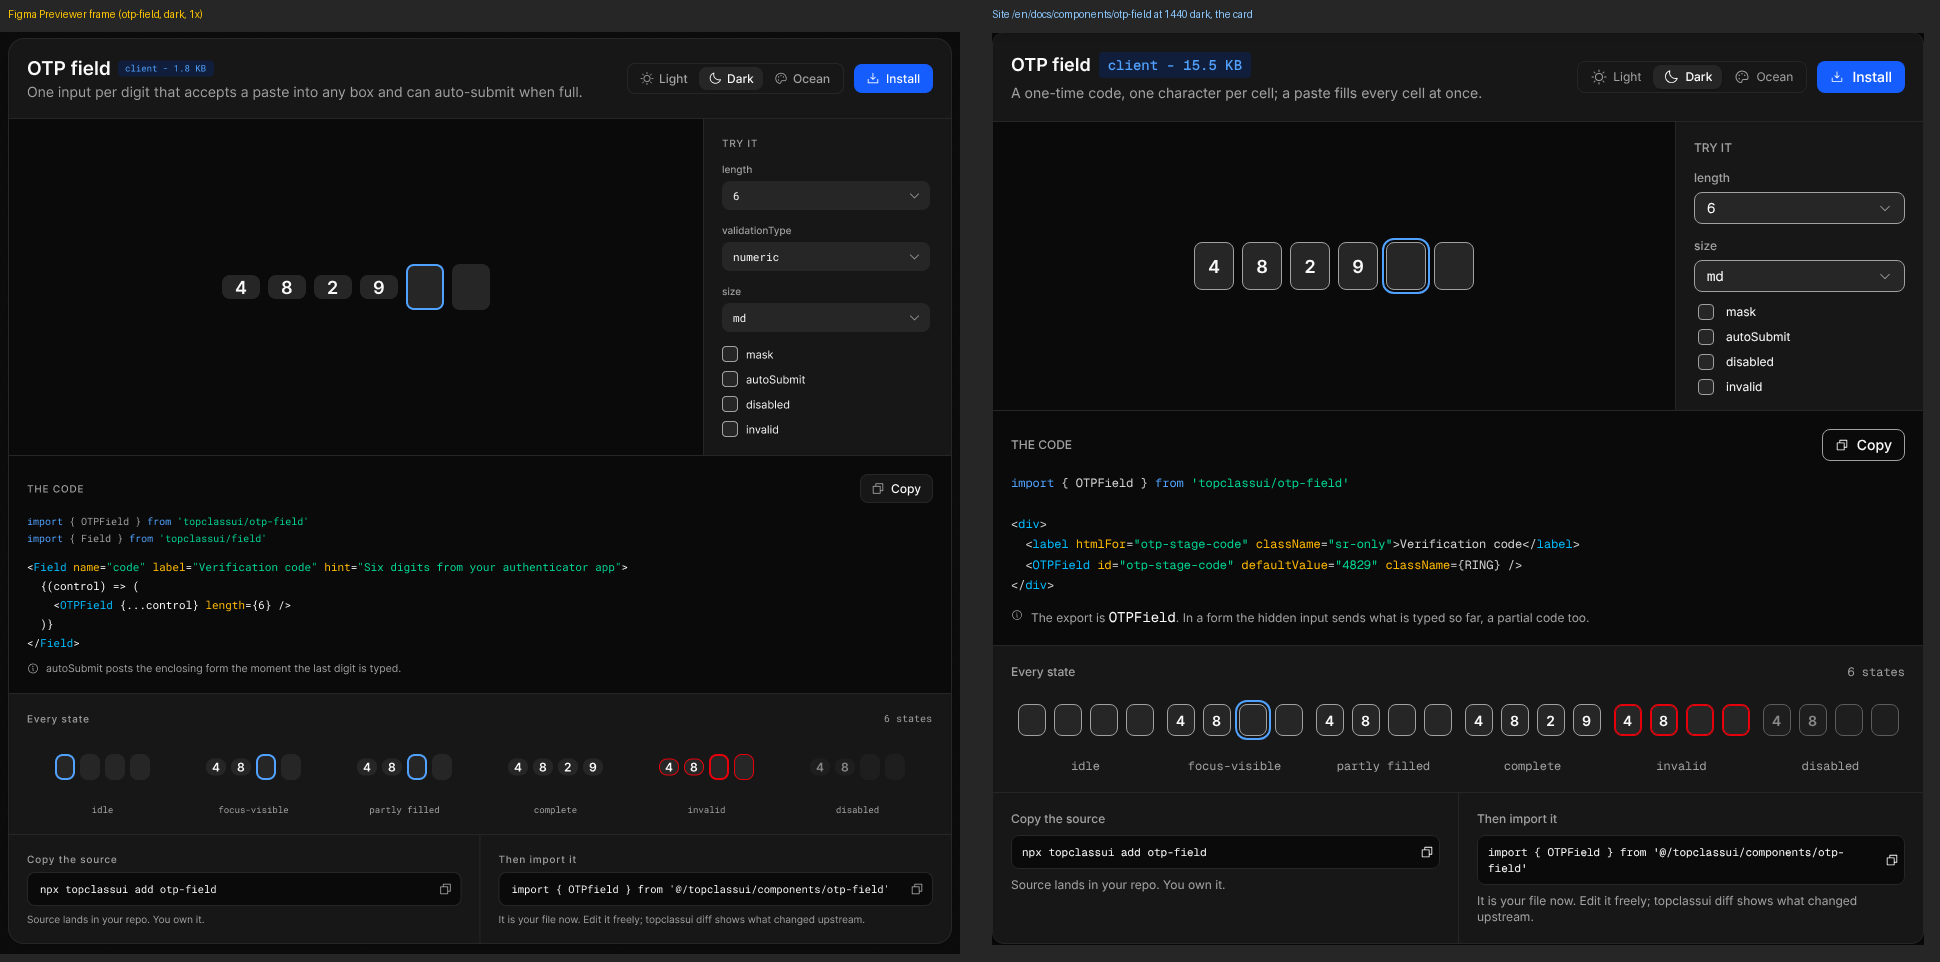
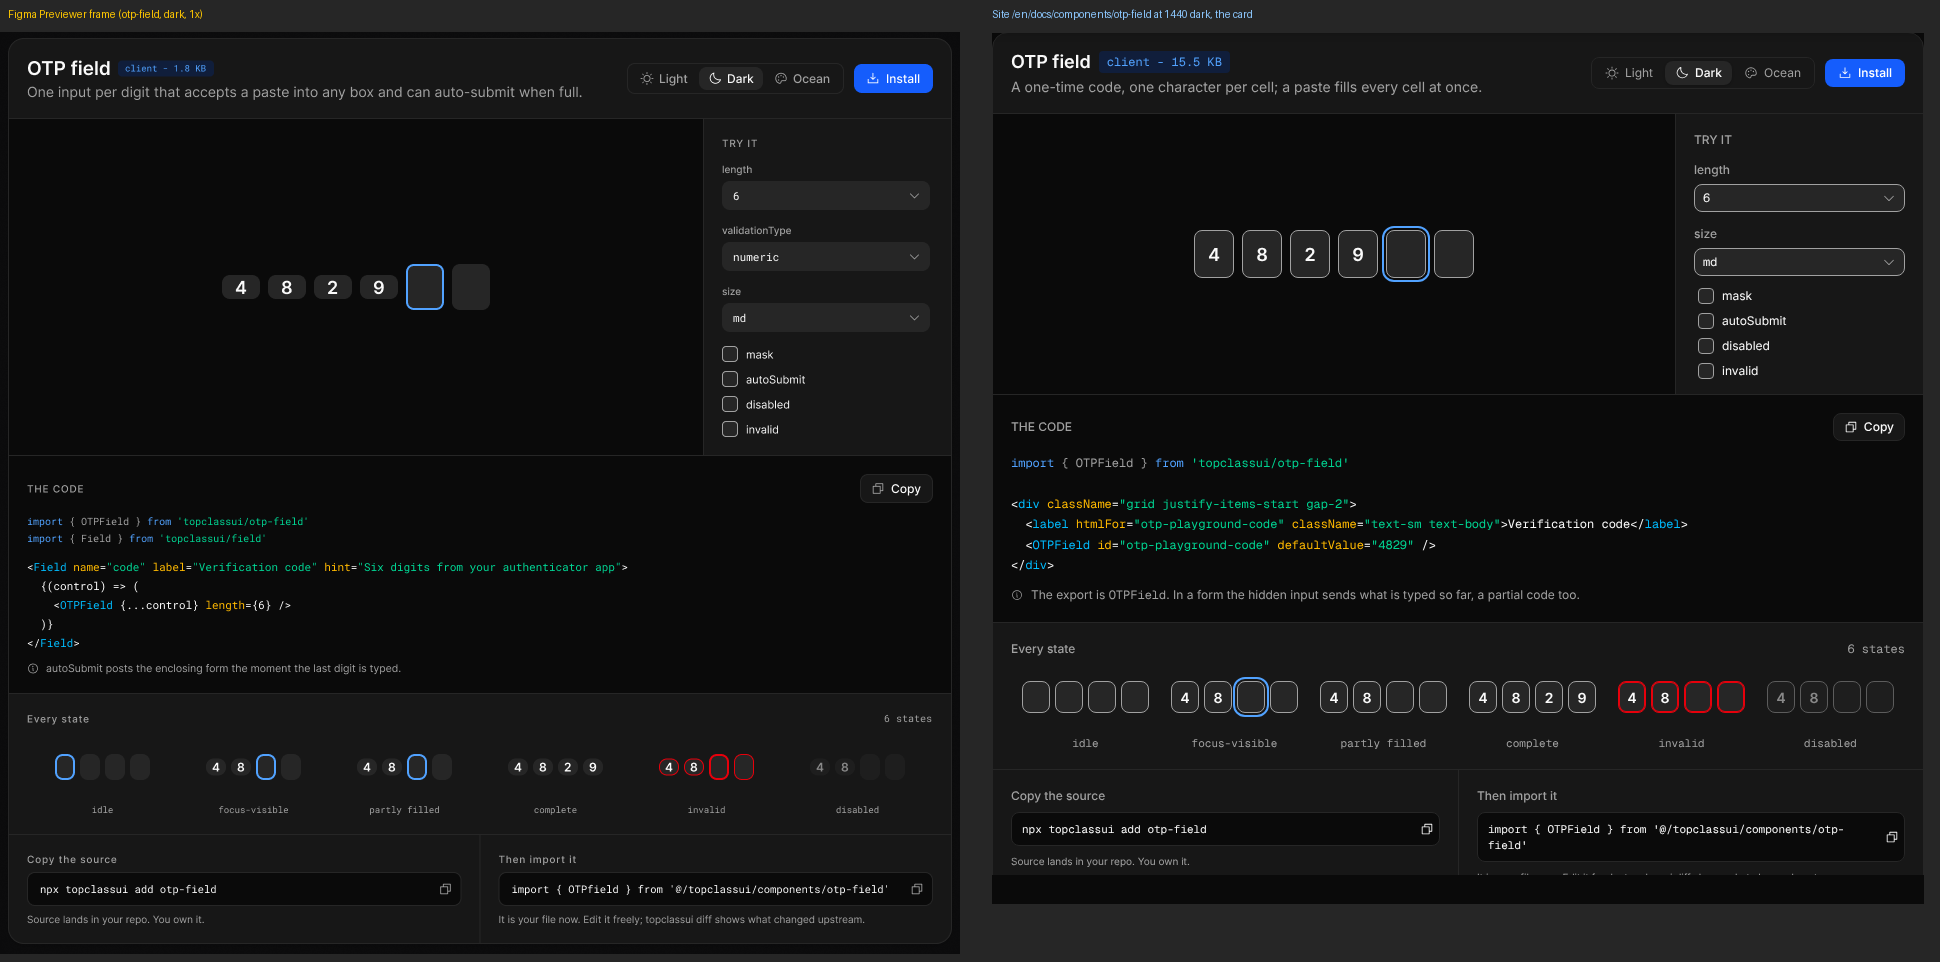
fix(otp-field): the states strip's fields take the drawn 5 px cell gap, so six fields read apart

diff --git a/packages/topclassui/src/components/otp-field/dummy/states.tsx b/packages/topclassui/src/components/otp-field/dummy/states.tsx
@@ -10,27 +10,27 @@ export default function Demo() {
     <div className="flex flex-wrap items-center gap-6">
       <div title="idle">
         <label htmlFor="otp-strip-idle" className="sr-only">Code, idle</label>
-        <OTPField id="otp-strip-idle" length={4} size="xs" />
+        <OTPField id="otp-strip-idle" length={4} size="xs" className="gap-1.25" />
       </div>
       <div title="focus-visible">
         <label htmlFor="otp-strip-focus" className="sr-only">Code, focus-visible</label>
-        <OTPField id="otp-strip-focus" length={4} size="xs" defaultValue="48" className={RING} />
+        <OTPField id="otp-strip-focus" length={4} size="xs" defaultValue="48" className={`${RING} gap-1.25`} />
       </div>
       <div title="partly filled">
         <label htmlFor="otp-strip-partly" className="sr-only">Code, partly filled</label>
-        <OTPField id="otp-strip-partly" length={4} size="xs" defaultValue="48" />
+        <OTPField id="otp-strip-partly" length={4} size="xs" defaultValue="48" className="gap-1.25" />
       </div>
       <div title="complete">
         <label htmlFor="otp-strip-complete" className="sr-only">Code, complete</label>
-        <OTPField id="otp-strip-complete" length={4} size="xs" defaultValue="4829" />
+        <OTPField id="otp-strip-complete" length={4} size="xs" defaultValue="4829" className="gap-1.25" />
       </div>
       <div title="invalid">
         <label htmlFor="otp-strip-invalid" className="sr-only">Code, invalid</label>
-        <OTPField id="otp-strip-invalid" length={4} size="xs" invalid defaultValue="48" />
+        <OTPField id="otp-strip-invalid" length={4} size="xs" invalid defaultValue="48" className="gap-1.25" />
       </div>
       <div title="disabled">
         <label htmlFor="otp-strip-disabled" className="sr-only">Code, disabled</label>
-        <OTPField id="otp-strip-disabled" length={4} size="xs" disabled defaultValue="48" />
+        <OTPField id="otp-strip-disabled" length={4} size="xs" disabled defaultValue="48" className="gap-1.25" />
       </div>
     </div>
   )

diff --git a/packages/topclassui/src/components/otp-field/test/otp-field.demos.rsc.test.tsx b/packages/topclassui/src/components/otp-field/test/otp-field.demos.rsc.test.tsx
@@ -66,8 +66,8 @@ describe('every demo is a Server Component that only hands the field what can cr
   it('states: each state is a plain prop of the field, the drawn ring a class', async () => {
     const props = crossings((await load('states'))()).map(({ props: given }) => Object.keys(given).join(' '))
     expect(props).toEqual([
-      'id length size', 'id length size defaultValue className', 'id length size defaultValue',
-      'id length size defaultValue', 'id length size invalid defaultValue', 'id length size disabled defaultValue',
+      'id length size className', 'id length size defaultValue className', 'id length size defaultValue className',
+      'id length size defaultValue className', 'id length size invalid defaultValue className', 'id length size disabled defaultValue className',
     ])
   })
 
